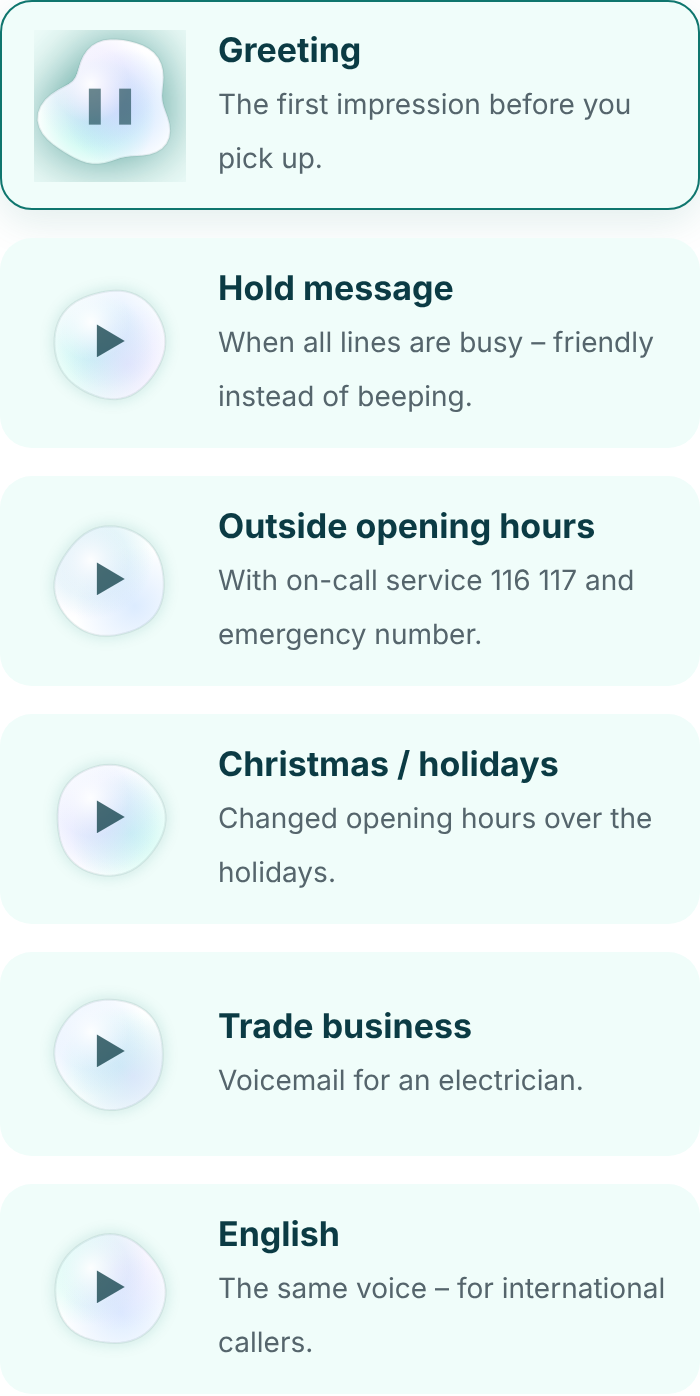
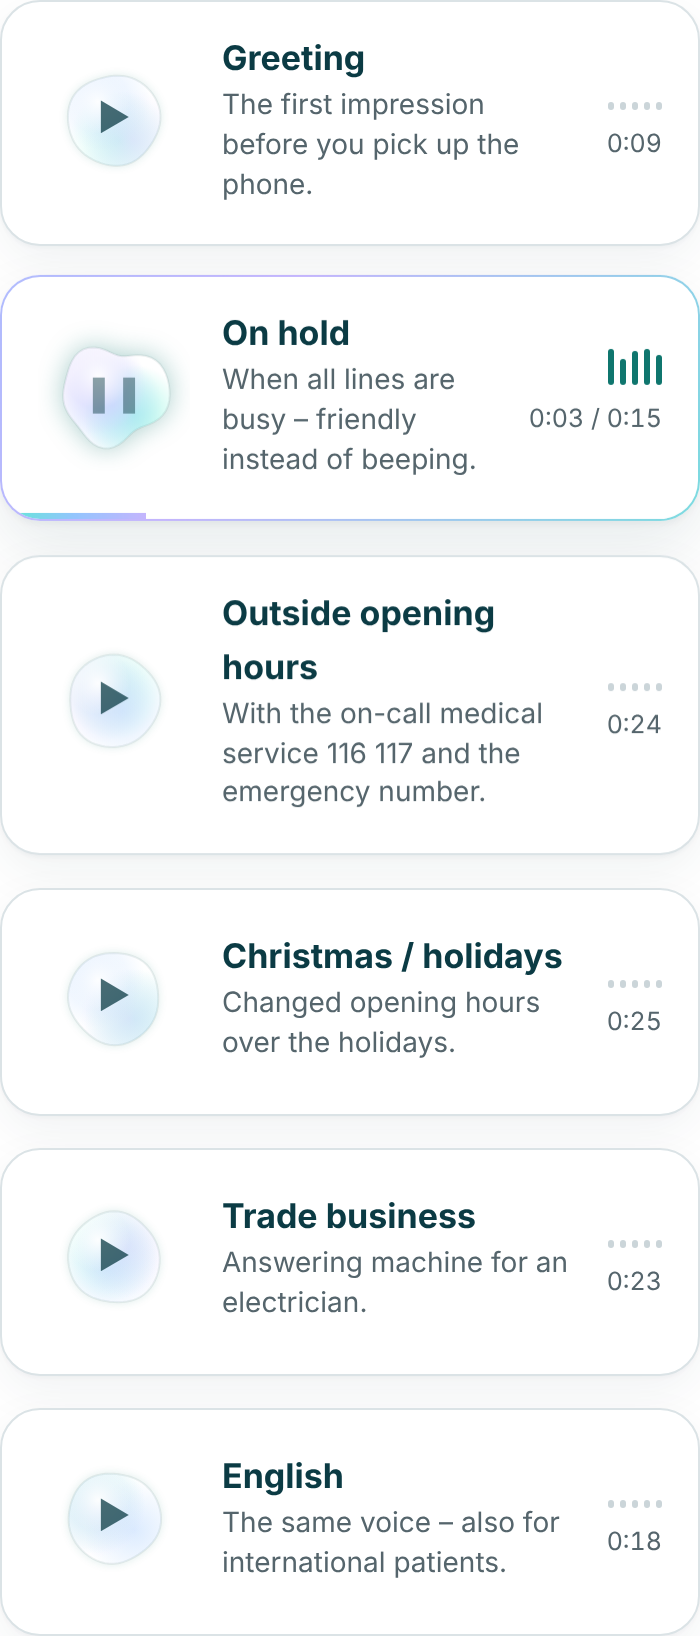
Hörproben-Karten: Fortschrittsbalken, Zeit, Equalizer, animierter Rahmen
Claude-Session: https://claude.ai/code/session_01NmVgpLyoKZxgaEGKkPjMiu

diff --git a/website/style.css b/website/style.css
@@ -75,20 +75,39 @@ footer a { margin-right: 16px; color: var(--muted); }
 }
 
 /* Sprechblasen-Player */
-.orbs { display: grid; grid-template-columns: repeat(auto-fit, minmax(260px, 1fr)); gap: 14px; }
+.orbs { display: grid; grid-template-columns: repeat(auto-fit, minmax(300px, 1fr)); gap: 16px; }
 .orb-card {
-  display: flex; align-items: center; gap: 16px; text-align: left; width: 100%;
-  background: var(--soft); border: 1.5px solid transparent; border-radius: 16px;
-  padding: 12px 16px; cursor: pointer; font: inherit; color: inherit; transition: border-color .2s, box-shadow .2s;
+  position: relative; overflow: hidden;
+  display: flex; align-items: center; gap: 16px; text-align: start; width: 100%;
+  background: #fff; border: 1px solid var(--line); border-radius: 20px;
+  padding: 16px 18px 20px; cursor: pointer; font: inherit; color: inherit;
+  box-shadow: 0 1px 2px rgba(11,59,68,.04), 0 8px 24px rgba(11,59,68,.06);
+  transition: transform .2s ease, box-shadow .2s ease, border-color .2s;
 }
-.orb-card:hover, .orb-card.playing { border-color: var(--teal); box-shadow: 0 6px 20px rgba(15,118,110,.12); }
+.orb-card:hover { transform: translateY(-2px); box-shadow: 0 2px 4px rgba(11,59,68,.05), 0 14px 32px rgba(11,59,68,.10); }
+.orb-card.playing {
+  border-color: transparent;
+  background: linear-gradient(#fff, #fff) padding-box,
+              linear-gradient(120deg, #5eead4, #93c5fd, #c4b5fd, #5eead4) border-box;
+  background-size: 100% 100%, 300% 100%; border: 1.5px solid transparent;
+  animation: borderflow 4s linear infinite;
+}
+@keyframes borderflow { to { background-position: 0 0, 300% 0; } }
 .orb { position: relative; flex: none; width: 76px; height: 76px; display: grid; place-items: center; }
 .orb canvas { position: absolute; inset: 0; width: 100%; height: 100%; }
 .orb-icon { position: relative; color: var(--dark); font-size: 18px; opacity: .75; transition: opacity .2s; }
 .orb-card.playing .orb-icon { opacity: 0; }
 .orb-card.playing:hover .orb-icon { opacity: .6; }
+.orb-text { flex: 1; min-width: 0; }
 .orb-text b { display: block; color: var(--dark); font-size: 17px; }
-.orb-text small { color: var(--muted); font-size: 14px; }
+.orb-text small { display: block; color: var(--muted); font-size: 14px; line-height: 1.4; }
+.orb-meta { display: flex; flex-direction: column; align-items: flex-end; gap: 8px; flex: none; }
+.orb-time { font-size: 12.5px; color: var(--muted); font-variant-numeric: tabular-nums; }
+.eq { display: flex; align-items: flex-end; gap: 3px; height: 18px; }
+.eq i { width: 3px; height: 4px; border-radius: 2px; background: #cbd5d9; transition: height .08s, background .3s; }
+.orb-card.playing .eq i { background: var(--teal); }
+.orb-bar { position: absolute; left: 0; bottom: 0; height: 3px; width: 0;
+  background: linear-gradient(90deg, #5eead4, #93c5fd, #c4b5fd); transition: width .1s linear; }
 .step strong { color: var(--dark); }
 
 /* Sprachumschalter */

diff --git a/website/player.js b/website/player.js
@@ -2,6 +2,15 @@
 (function () {
   var audio = new Audio(), ctx, analyser, data, current = null;
   var cards = [].slice.call(document.querySelectorAll('.orb-card'));
+  function fmt(s) { s = Math.round(s || 0); return Math.floor(s / 60) + ':' + ('0' + s % 60).slice(-2); }
+  cards.forEach(function (card) {
+    var meta = document.createElement('span'); meta.className = 'orb-meta';
+    meta.innerHTML = '<span class="eq"><i></i><i></i><i></i><i></i><i></i></span><span class="orb-time">–:––</span>';
+    card.appendChild(meta);
+    var bar = document.createElement('span'); bar.className = 'orb-bar'; card.appendChild(bar);
+    var probe = new Audio(); probe.preload = 'metadata'; probe.src = card.dataset.src;
+    probe.addEventListener('loadedmetadata', function () { card.dataset.dur = probe.duration; meta.lastChild.textContent = fmt(probe.duration); });
+  });
   var state = cards.map(function (card, i) {
     var cv = card.querySelector('canvas'), dpr = Math.min(window.devicePixelRatio || 1, 2);
     cv.width = 76 * dpr; cv.height = 76 * dpr;
@@ -74,6 +83,13 @@
   function frame(ms) {
     var t = ms / 1000;
     state.forEach(function (s) { draw(s, t); });
+    if (current) {
+      var s = state[cards.indexOf(current)], bars = current.querySelectorAll('.eq i');
+      for (var i = 0; i < bars.length; i++) bars[i].style.height = (4 + 14 * Math.min(1, s.lvl * (0.7 + 0.6 * Math.abs(Math.sin(t * (6 + i * 1.7) + i))))) + 'px';
+      var d = audio.duration || +current.dataset.dur || 1;
+      current.querySelector('.orb-bar').style.width = (audio.currentTime / d * 100) + '%';
+      current.querySelector('.orb-time').textContent = fmt(audio.currentTime) + ' / ' + fmt(d);
+    }
     requestAnimationFrame(frame);
   }
   requestAnimationFrame(frame);
@@ -81,6 +97,9 @@
   function stop() {
     if (!current) return;
     current.classList.remove('playing');
+    current.querySelector('.orb-bar').style.width = '0';
+    current.querySelectorAll('.eq i').forEach(function (b) { b.style.height = '4px'; });
+    current.querySelector('.orb-time').textContent = fmt(+current.dataset.dur);
     current.querySelector('.orb-icon').textContent = '▶';
     current = null;
   }

diff --git a/NEUIGKEITEN.md b/NEUIGKEITEN.md
@@ -14,6 +14,8 @@ Neueste Einträge oben. Format: `Datum – Name: was gemacht / was als Nächstes
 
 ## Verlauf
 
+- 16.11.2026 – Claude: Hörproben-Karten neu gestaltet: weiße Karten mit Schatten, Fortschrittsbalken,
+  Zeitanzeige, kleiner Equalizer, schimmernder Rahmen beim Abspielen (`style.css`, `player.js`).
 - 16.11.2026 – Claude: Website mehrsprachig: 🌐-Knopf oben rechts mit Deutsch, Englisch, Türkisch, Polnisch, Russisch, Ukrainisch, Arabisch (`website/i18n.js`).
   Ersetzt den DE/EN-Umschalter; `en.html` leitet jetzt auf die englische Fassung weiter. Rechtstexte bleiben Deutsch.
   Übersetzungen am besten von Muttersprachlern gegenlesen lassen. **Texte auf der Startseite ändern → `i18n.js` mitpflegen** (siehe Anleitung).
